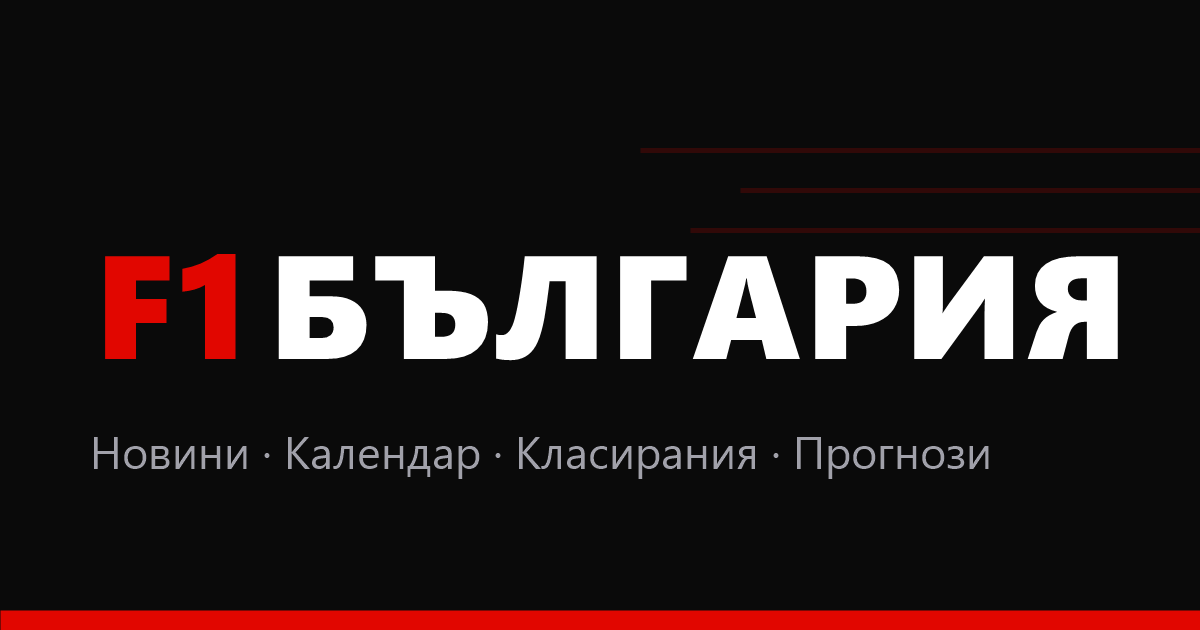
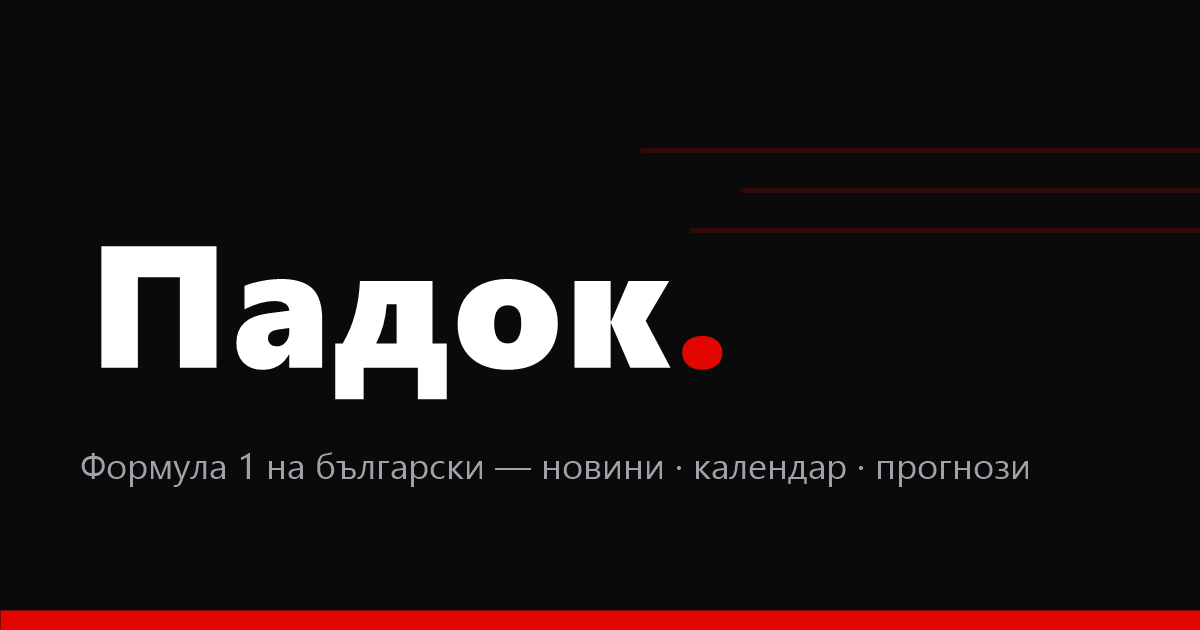
Rebrand from F1 България to Падок
Complete rebranding of the application. Updated app name from 'F1 България' to 'Падок' across all configuration, documentation, frontend components, backend services, email templates, and assets. Changed primary domain from f1bulgaria.bg to padok.bg. Updated OG/social meta tags, PWA manifest, error pages, and branding strings throughout the codebase.

Changed region(s): [[0.0617, 0.3921, 0.9558, 0.6333], [0.4317, 0.6937, 0.8633, 0.7841], [0.0617, 0.6937, 0.4008, 0.7841]]

diff --git a/resources/js/Layouts/PublicLayout.vue b/resources/js/Layouts/PublicLayout.vue
@@ -53,7 +53,7 @@ onBeforeUnmount(() => document.removeEventListener('click', onClickOutside));
         <header class="sticky top-0 z-30 border-b border-zinc-800/80 bg-black/70 backdrop-blur">
             <nav class="mx-auto flex max-w-6xl items-center justify-between gap-4 px-4 py-3.5">
                 <Link :href="route('home')" class="flex items-center gap-1.5 font-display text-lg font-black tracking-tight">
-                    <span class="text-red-600">F1</span><span>България</span>
+                    <span>Падок</span><span class="text-red-600">.</span>
                 </Link>
 
                 <div class="hidden items-center gap-3 lg:flex xl:gap-5">
@@ -156,7 +156,7 @@ onBeforeUnmount(() => document.removeEventListener('click', onClickOutside));
                 <NewsletterForm source="footer" />
             </div>
             <p class="mx-auto max-w-xl">
-                F1 България — независима общност на българските фенове на Формула 1.
+                Падок — независима общност на българските фенове на Формула 1.
             </p>
             <nav class="mt-4 flex flex-wrap items-center justify-center gap-x-4 gap-y-2 text-xs text-zinc-500">
                 <Link :href="route('privacy')" class="transition hover:text-zinc-300">Поверителност</Link>

diff --git a/resources/js/Pages/Home.vue b/resources/js/Pages/Home.vue
@@ -33,12 +33,12 @@ const links = computed(() => allLinks.filter((l) => hasRoute(l.route) && (!l.fea
 </script>
 
 <template>
-    <Head title="F1 България — Формула 1 на български">
+    <Head title="Падок — Формула 1 на български">
         <meta head-key="description" name="description" content="Формула 1 на български: новини, календар на състезанията, класиране на пилоти и конструктори, статистика и профили. Независима общност на българските F1 фенове." />
     </Head>
 
     <PublicLayout>
-        <h1 class="sr-only">F1 България — новини, календар и класиране от Формула 1 на български</h1>
+        <h1 class="sr-only">Падок — новини, календар и класиране от Формула 1 на български</h1>
 
         <LiveSessionBanner v-if="features.live_timing" :session="liveSession" />
 

diff --git a/resources/js/Pages/News/Show.vue b/resources/js/Pages/News/Show.vue
@@ -88,7 +88,7 @@ const analysisParagraphs = computed(() => toParagraphs(props.article.analysis));
                 <!-- Източник / attribution -->
                 <div class="mt-8 rounded-2xl border border-zinc-800 bg-zinc-900/60 p-5">
                     <p class="text-sm text-zinc-400">
-                        Резюмето и преводът са изготвени от F1 България. Пълната оригинална статия е публикувана от
+                        Резюмето и преводът са изготвени от Падок. Пълната оригинална статия е публикувана от
                         <span v-if="article.source" class="font-semibold text-zinc-200">{{ article.source }}</span>
                         <span v-else>първоизточника</span>.
                     </p>

diff --git a/resources/js/Layouts/AuthenticatedLayout.vue b/resources/js/Layouts/AuthenticatedLayout.vue
@@ -20,7 +20,7 @@ const showingNavigationDropdown = ref(false);
                             <!-- Logo -->
                             <div class="flex shrink-0 items-center">
                                 <Link :href="route('dashboard')" class="font-display text-lg font-black tracking-tight">
-                                    <span class="text-red-600">F1</span> България
+                                    Падок<span class="text-red-600">.</span>
                                 </Link>
                             </div>
 

diff --git a/resources/js/Components/Hero/HeroSection.vue b/resources/js/Components/Hero/HeroSection.vue
@@ -70,7 +70,7 @@ const countdownText = computed(() => {
                     v-html="trackSvg"
                 />
                 <div v-else class="relative flex h-44 w-full items-center justify-center rounded-lg border border-dashed border-zinc-700 text-zinc-500">
-                    <span class="text-sm">{{ hero.race?.circuit ?? 'F1 България' }}</span>
+                    <span class="text-sm">{{ hero.race?.circuit ?? 'Падок' }}</span>
                 </div>
             </div>
 

diff --git a/resources/js/Layouts/AuthLayout.vue b/resources/js/Layouts/AuthLayout.vue
@@ -13,7 +13,7 @@ defineProps({
         <div class="flex w-full flex-col justify-center px-6 py-12 sm:px-12 lg:w-1/2 lg:px-16">
             <div class="mx-auto w-full max-w-md">
                 <Link href="/" class="inline-flex items-center font-display text-2xl font-black tracking-tight">
-                    F1 <span class="ml-1.5 text-red-600">България</span>
+                    Падок<span class="text-red-600">.</span>
                 </Link>
 
                 <div class="mt-8">

diff --git a/resources/js/Pages/Auth/Login.vue b/resources/js/Pages/Auth/Login.vue
@@ -26,7 +26,7 @@ const submit = () => {
 </script>
 
 <template>
-    <AuthLayout title="Влез в F1 България" subtitle="Прогнози. Класирания. История.">
+    <AuthLayout title="Влез в Падок" subtitle="Прогнози. Класирания. История.">
         <Head title="Вход" />
 
         <div v-if="status" class="mb-4 text-sm font-medium text-green-400">

diff --git a/resources/views/app.blade.php b/resources/views/app.blade.php
@@ -8,21 +8,21 @@
         <link rel="icon" href="/favicon.ico" sizes="48x48">
         <link rel="apple-touch-icon" sizes="180x180" href="/apple-touch-icon.png">
 
-        <title inertia>{{ config('app.name', 'F1 България') }}</title>
+        <title inertia>{{ config('app.name', 'Падок') }}</title>
 
         <!-- SEO / Open Graph (по подразбиране; Inertia <Head> презаписва title-а на отделните страници) -->
-        <meta name="description" content="F1 България — новини, календар, класирания, статистика и live тайминг от Формула 1 на български.">
+        <meta name="description" content="Падок — новини, календар, класирания, статистика и live тайминг от Формула 1 на български.">
         <link rel="canonical" href="{{ url()->current() }}">
-        <meta property="og:site_name" content="F1 България">
+        <meta property="og:site_name" content="Падок">
         <meta property="og:type" content="website">
-        <meta property="og:title" content="F1 България">
+        <meta property="og:title" content="Падок — Формула 1 на български">
         <meta property="og:description" content="Формула 1 на български — новини, календар, класирания и статистика.">
         <meta property="og:url" content="{{ url()->current() }}">
         <meta property="og:image" content="{{ asset('images/og-default.png') }}">
         <meta property="og:image:width" content="1200">
         <meta property="og:image:height" content="630">
         <meta name="twitter:card" content="summary_large_image">
-        <meta name="twitter:title" content="F1 България">
+        <meta name="twitter:title" content="Падок — Формула 1 на български">
         <meta name="twitter:description" content="Формула 1 на български — новини, календар, класирания и статистика.">
         <meta name="twitter:image" content="{{ asset('images/og-default.png') }}">
 

diff --git a/app/Services/Calendar/IcsCalendarBuilder.php b/app/Services/Calendar/IcsCalendarBuilder.php
@@ -26,7 +26,7 @@ class IcsCalendarBuilder
         $lines = [
             'BEGIN:VCALENDAR',
             'VERSION:2.0',
-            'PRODID:-//F1 България//Календар//BG',
+            'PRODID:-//Падок//Календар//BG',
             'CALSCALE:GREGORIAN',
             'METHOD:PUBLISH',
             'X-WR-CALNAME:'.$this->escape($calendarName),
@@ -60,7 +60,7 @@ class IcsCalendarBuilder
                 }
 
                 $events[] = [
-                    'uid' => "f1bg-{$race->id}-{$session->type->value}@f1bulgaria.bg",
+                    'uid' => "padok-{$race->id}-{$session->type->value}@padok.bg",
                     'start' => $session->scheduled_at_utc,
                     'summary' => "{$race->name} — {$session->type->label()}",
                     'description' => "{$race->circuit}, {$race->country}\\n{$link}",
@@ -74,7 +74,7 @@ class IcsCalendarBuilder
         // Резерв: ако няма сесии — поне състезанието от race_datetime_utc.
         if ($race->race_datetime_utc !== null) {
             $events[] = [
-                'uid' => "f1bg-{$race->id}-race@f1bulgaria.bg",
+                'uid' => "padok-{$race->id}-race@padok.bg",
                 'start' => $race->race_datetime_utc,
                 'summary' => "{$race->name} — Състезание",
                 'description' => "{$race->circuit}, {$race->country}\\n{$link}",

diff --git a/tests/Feature/Calendar/IcsFeedTest.php b/tests/Feature/Calendar/IcsFeedTest.php
@@ -41,7 +41,7 @@ it('връща валиден iCalendar с правилен content-type', funct
     expect($body)->toContain('BEGIN:VCALENDAR')
         ->and($body)->toContain('END:VCALENDAR')
         ->and($body)->toContain('BEGIN:VEVENT')
-        ->and($body)->toContain('UID:f1bg-'.$this->race->id.'-race@f1bulgaria.bg')
+        ->and($body)->toContain('UID:padok-'.$this->race->id.'-race@padok.bg')
         ->and($body)->toContain('CATEGORIES:F1')
         ->and($body)->toContain('DTSTART:20260308T150000Z');
 });
@@ -50,8 +50,8 @@ it('включва събитие за всяка сесия на състеза
     $body = $this->get('/calendar.ics')->getContent();
 
     expect(substr_count($body, 'BEGIN:VEVENT'))->toBe(2) // квалификация + състезание
-        ->and($body)->toContain('-qualifying@f1bulgaria.bg')
-        ->and($body)->toContain('-race@f1bulgaria.bg');
+        ->and($body)->toContain('-qualifying@padok.bg')
+        ->and($body)->toContain('-race@padok.bg');
 });
 
 it('връща .ics за конкретен пилот от текущия сезон', function () {

diff --git a/config/history-content.php b/config/history-content.php
@@ -84,7 +84,7 @@ return [
                     .'се коментира в реално време, споделят се клипове, мемета и анализи. Live чатът по време на старта е '
                     .'се превърнал в новия „диван с приятели".',
                 'В София, Пловдив и Варна се събират компании за съвместно гледане на ключовите състезания. А '
-                    .'платформи като F1 България се опитват да съберат всичко на едно място — календар, класирания, '
+                    .'платформи като Падок се опитват да съберат всичко на едно място — календар, класирания, '
                     .'статистика и новини на български. Защото страстта е по-хубава, когато е споделена.',
             ],
         ],

diff --git a/resources/views/errors/minimal.blade.php b/resources/views/errors/minimal.blade.php
@@ -5,7 +5,7 @@
         <meta name="viewport" content="width=device-width, initial-scale=1">
         <meta name="theme-color" content="#e10600">
 
-        <title>@yield('code') · @yield('title') — F1 България</title>
+        <title>@yield('code') · @yield('title') — Падок</title>
 
         {{-- Нарочно без Vite/външни асети: error страницата трябва да работи и когато app-ът е счупен. --}}
         <style>
@@ -51,7 +51,7 @@
     </head>
     <body>
         <main class="wrap" role="main">
-            <div class="brand"><span>F1</span> България</div>
+            <div class="brand">Падок<span>.</span></div>
             <div class="code">@yield('code')</div>
             <p class="message">@yield('message')</p>
             <a class="home" href="/">← Към началото</a>
